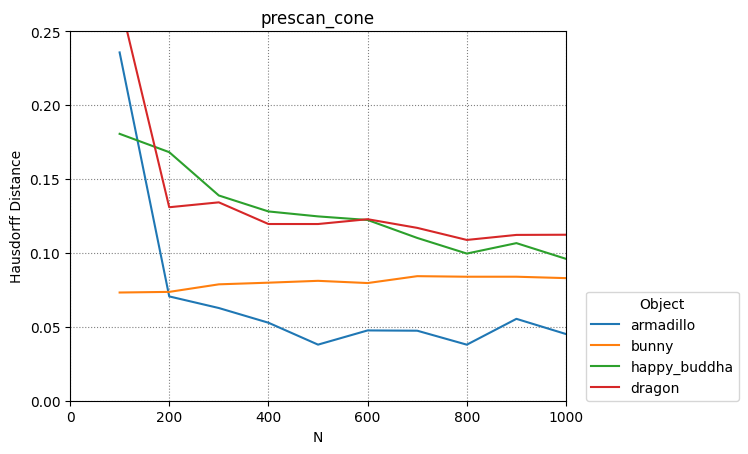
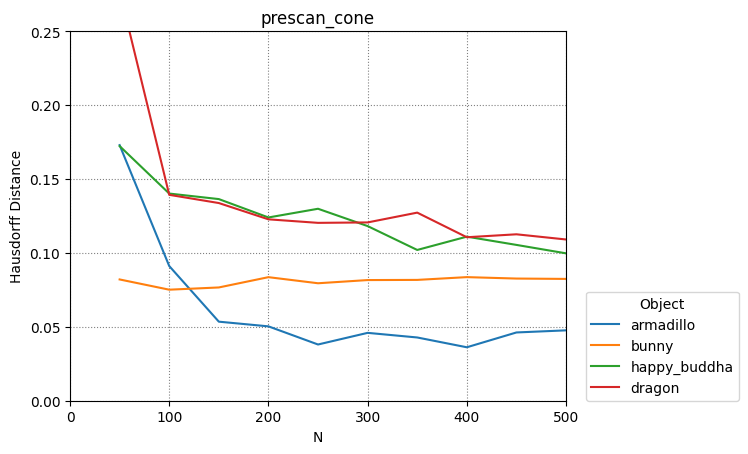
Plot hausdorff

diff --git a/analysis/hausdorff.py b/analysis/hausdorff.py
@@ -1,8 +1,8 @@
 import csv
 import argparse
 
-from ray_field import prescan_cone, baseline
-from analysis import ALGORITHM_LIST, N_VALUES, OBJECT_NAMES
+from ray_field.algorithm import Algorithm
+from analysis import ALGORITHM_LIST, N_VALUES, OBJECT_NAMES, class_dict
 
 import matplotlib
 import matplotlib.pyplot as plt
@@ -10,22 +10,12 @@ matplotlib.use('Agg')
 
 DIR_PATH = 'analysis/data/hausdorff'
 
-def compute_values_baseline() -> tuple[list[str], list[int], list[list[float]]]:
+def compute_values(algorithm: type[Algorithm]) -> tuple[list[str], list[int], list[list[float]]]:
     distances = []
 
     for i in range(len(OBJECT_NAMES)):
         print(OBJECT_NAMES[i])
-        result = baseline.baseline_hausdorff(OBJECT_NAMES[i], N_VALUES)
-        distances.append(result)
-
-    return OBJECT_NAMES, N_VALUES, distances
-
-def compute_values_prescan_cone() -> tuple[list[str], list[int], list[list[float]]]:
-    distances = []
-
-    for i in range(len(OBJECT_NAMES)):
-        print(OBJECT_NAMES[i])
-        result = prescan_cone.prescan_cone_hausdorff(OBJECT_NAMES[i], N_VALUES)
+        result = algorithm.hausdorff(OBJECT_NAMES[i], N_VALUES)
         distances.append(result)
 
     return OBJECT_NAMES, N_VALUES, distances
@@ -58,7 +48,7 @@ def plot_results(object_names: list[str], N_values: list[int], distances: list[l
         ax.plot(N_values, entry, label=f'{object_names[i]}')
     
     ax.set_ylabel('Hausdorff Distance')
-    ax.set_xlim([0, 1000])
+    ax.set_xlim([0, N_values[-1]])
     ax.set_ylim([0, 0.25])
     ax.set_xlabel('N')
     ax.set_title(algorithm)
@@ -85,12 +75,6 @@ if args.Load:
     object_names, N_values, distances = load_results(args.Algorithm)
     plot_results(object_names, N_values, distances, args.Algorithm)
 elif args.Save:
-    if args.Algorithm == 'baseline':
-        object_names, N_values, distances = compute_values_baseline()
-    elif args.Algorithm == 'prescan_cone':
-        object_names, N_values, distances = compute_values_prescan_cone()
-    else:
-        exit()
-    
+    object_names, N_values, distances = compute_values(class_dict[args.Algorithm])
     save_results(object_names, N_values, distances, args.Algorithm)
     plot_results(object_names, N_values, distances, args.Algorithm)
